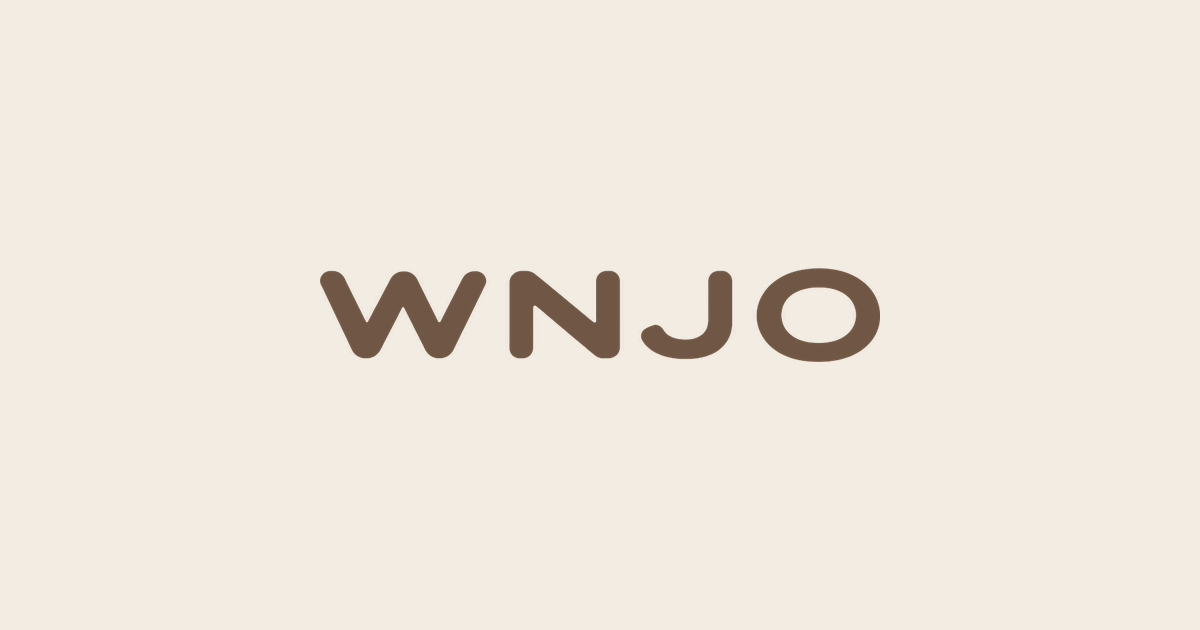
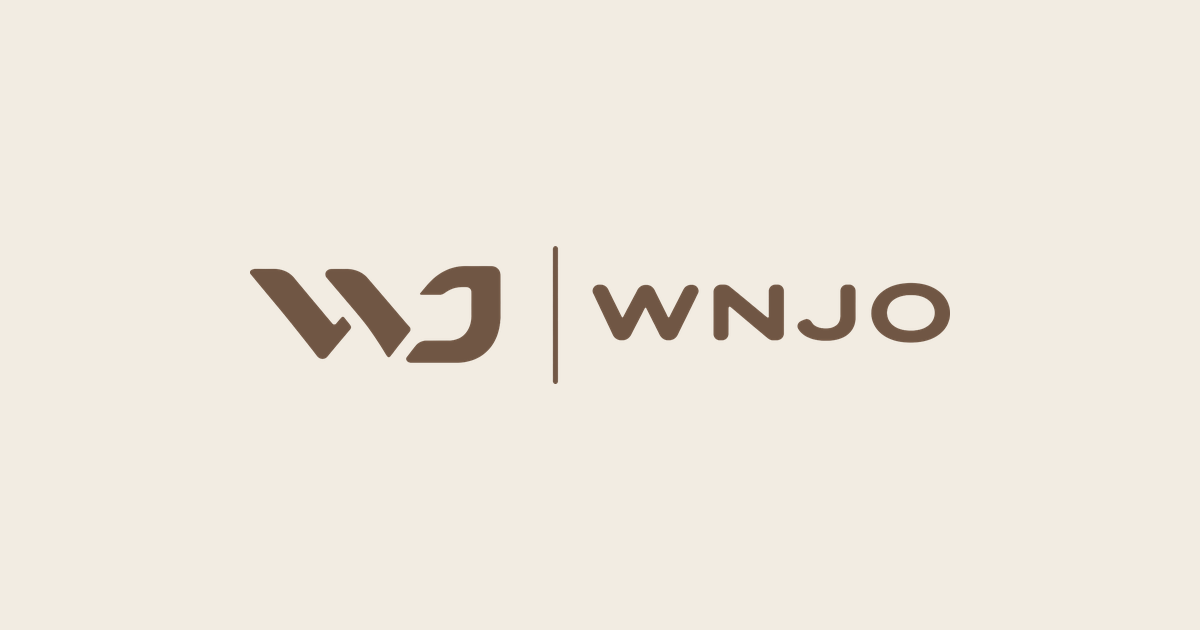
Use full WNJO lockup (mark, divider, wordmark) in header, footer and share image
Claude-Session: https://claude.ai/code/session_01R5ErWyob6gijzSN6qjzQw1

Changed region(s): [[0.185, 0.4222, 0.8017, 0.6032]]

diff --git a/src/app/globals.css b/src/app/globals.css
@@ -71,7 +71,7 @@
   --width-measure: 34rem; /* comfortable line length for supporting copy */
   --gutter: clamp(1rem, 0.5rem + 2.5vw, 2.5rem);
   --svc-top: clamp(0.25rem, 0rem + 1vw, 1.25rem); /* space between the header and the service switcher */
-  --logo-h: 2rem; /* header logo height; the bar grows with it */
+  --logo-h: 2.25rem; /* header logo height; the bar grows with it */
   --header-h: max(4rem, calc(var(--logo-h) + 1.75rem));
 
   /* Shape & depth */
@@ -1114,7 +1114,7 @@ main {
 
 .site-footer__brand img {
   width: auto;
-  height: 1.5rem;
+  height: 1.75rem;
 }
 
 .site-footer__brand p {

diff --git a/src/components/Logo.tsx b/src/components/Logo.tsx
@@ -1,7 +1,7 @@
 import Image from "next/image";
 import logo from "../../public/brand/wnjo-logo-462.png";
 
-/** The supplied WNJO wordmark, used unmodified. */
+/** The supplied WNJO lockup (WJ mark, divider and wordmark), used unmodified. */
 export function Logo({ preload = false }: { preload?: boolean }) {
-  return <Image src={logo} alt="WNJO" preload={preload} sizes="140px" />;
+  return <Image src={logo} alt="WNJO" preload={preload} sizes="(min-width: 64rem) 200px, 170px" />;
 }
